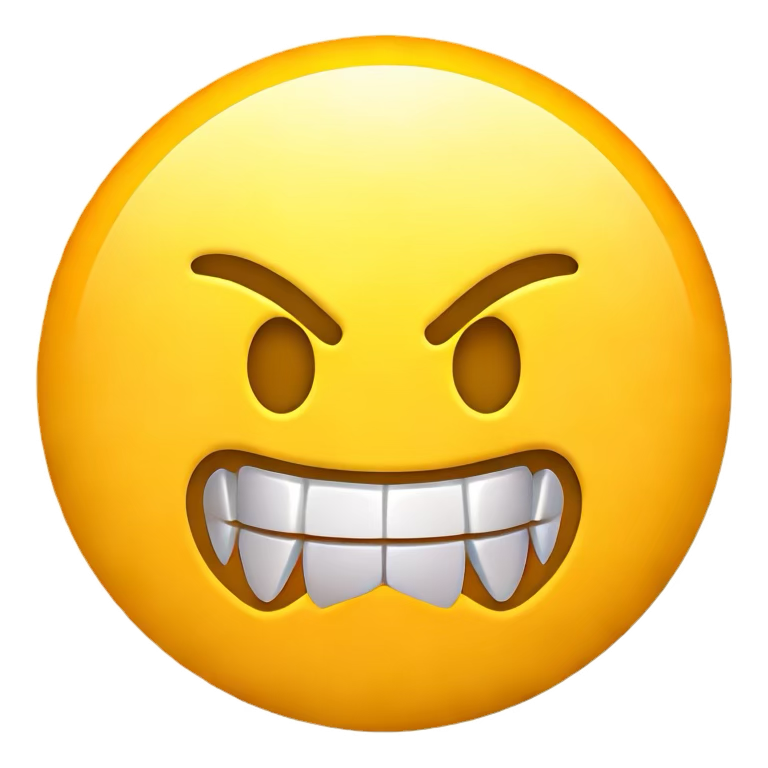
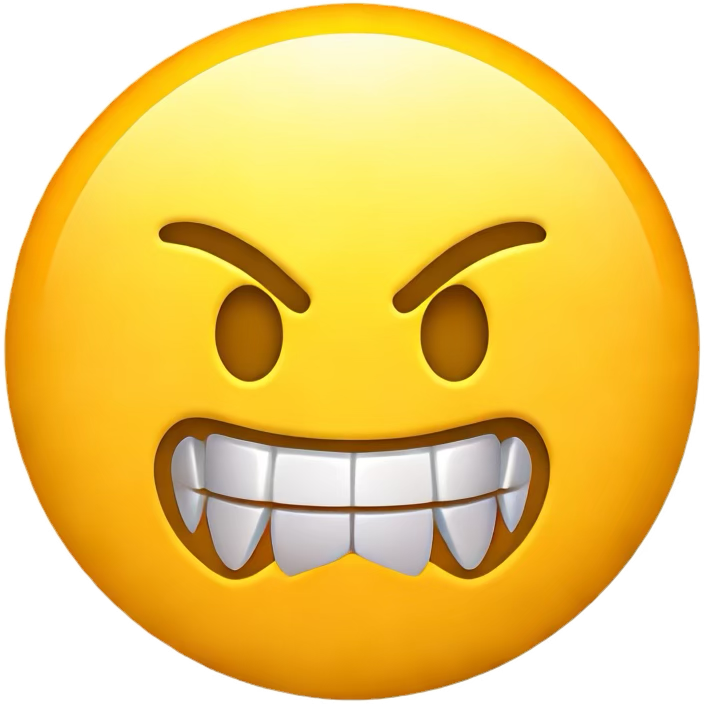
Crop katakna image padding and reset chat size to h-10 w-10
Image had 32px whitespace on all sides making it appear small.

diff --git a/src/components/ChatThread.tsx b/src/components/ChatThread.tsx
@@ -32,7 +32,7 @@ export default function ChatThread({ moodLogId, currentUserId, initialMessages }
     { src: "/sticker-angry.png",   alt: "angry",   traySize: "h-8 w-8", chatSize: "h-10 w-10" },
     { src: "/sticker-cozy.png",    alt: "cozy",    traySize: "h-8 w-8", chatSize: "h-10 w-10" },
     { src: "/sticker-payal.png",   alt: "Payal",   traySize: "h-8 w-8", chatSize: "h-10 w-10" },
-    { src: "/sticker-katakna.png", alt: "katakna", traySize: "h-5 w-5", chatSize: "h-14 w-14" },
+    { src: "/sticker-katakna.png", alt: "katakna", traySize: "h-5 w-5", chatSize: "h-10 w-10" },
   ];
   const stickerChatSize: Record<string, string> = Object.fromEntries(
     CUSTOM_STICKERS.map((s) => [s.src, s.chatSize])
